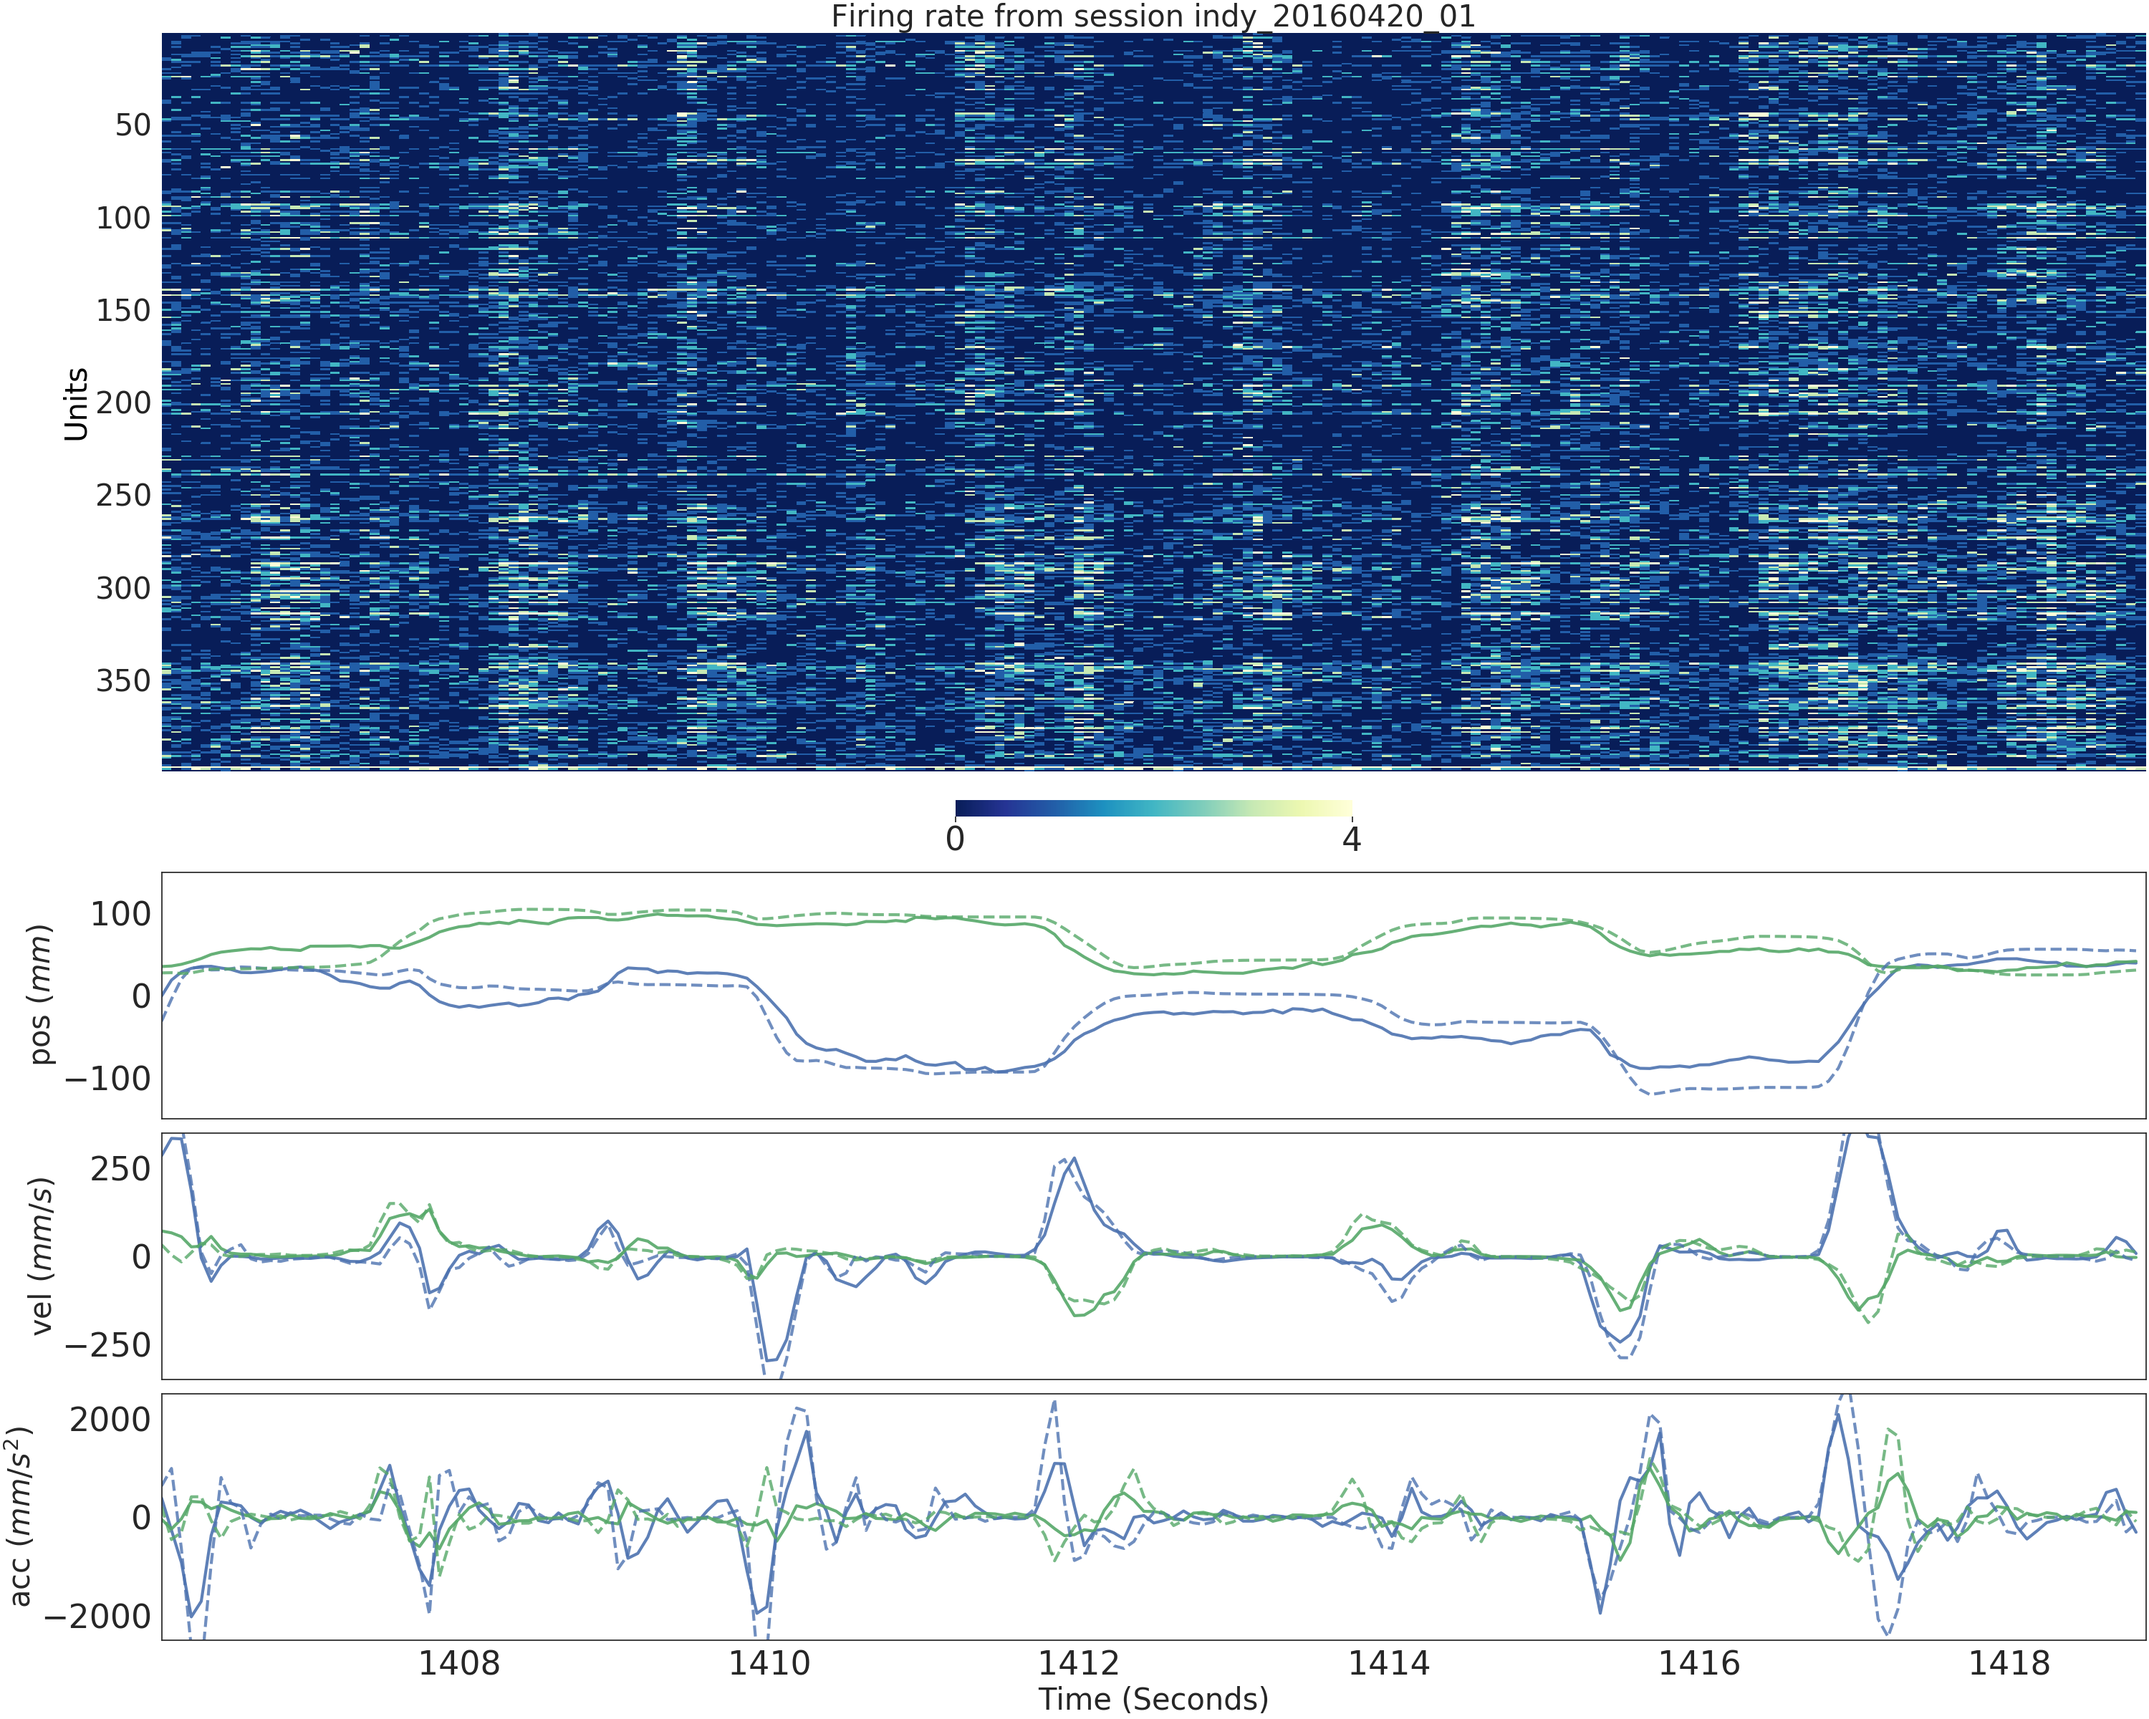
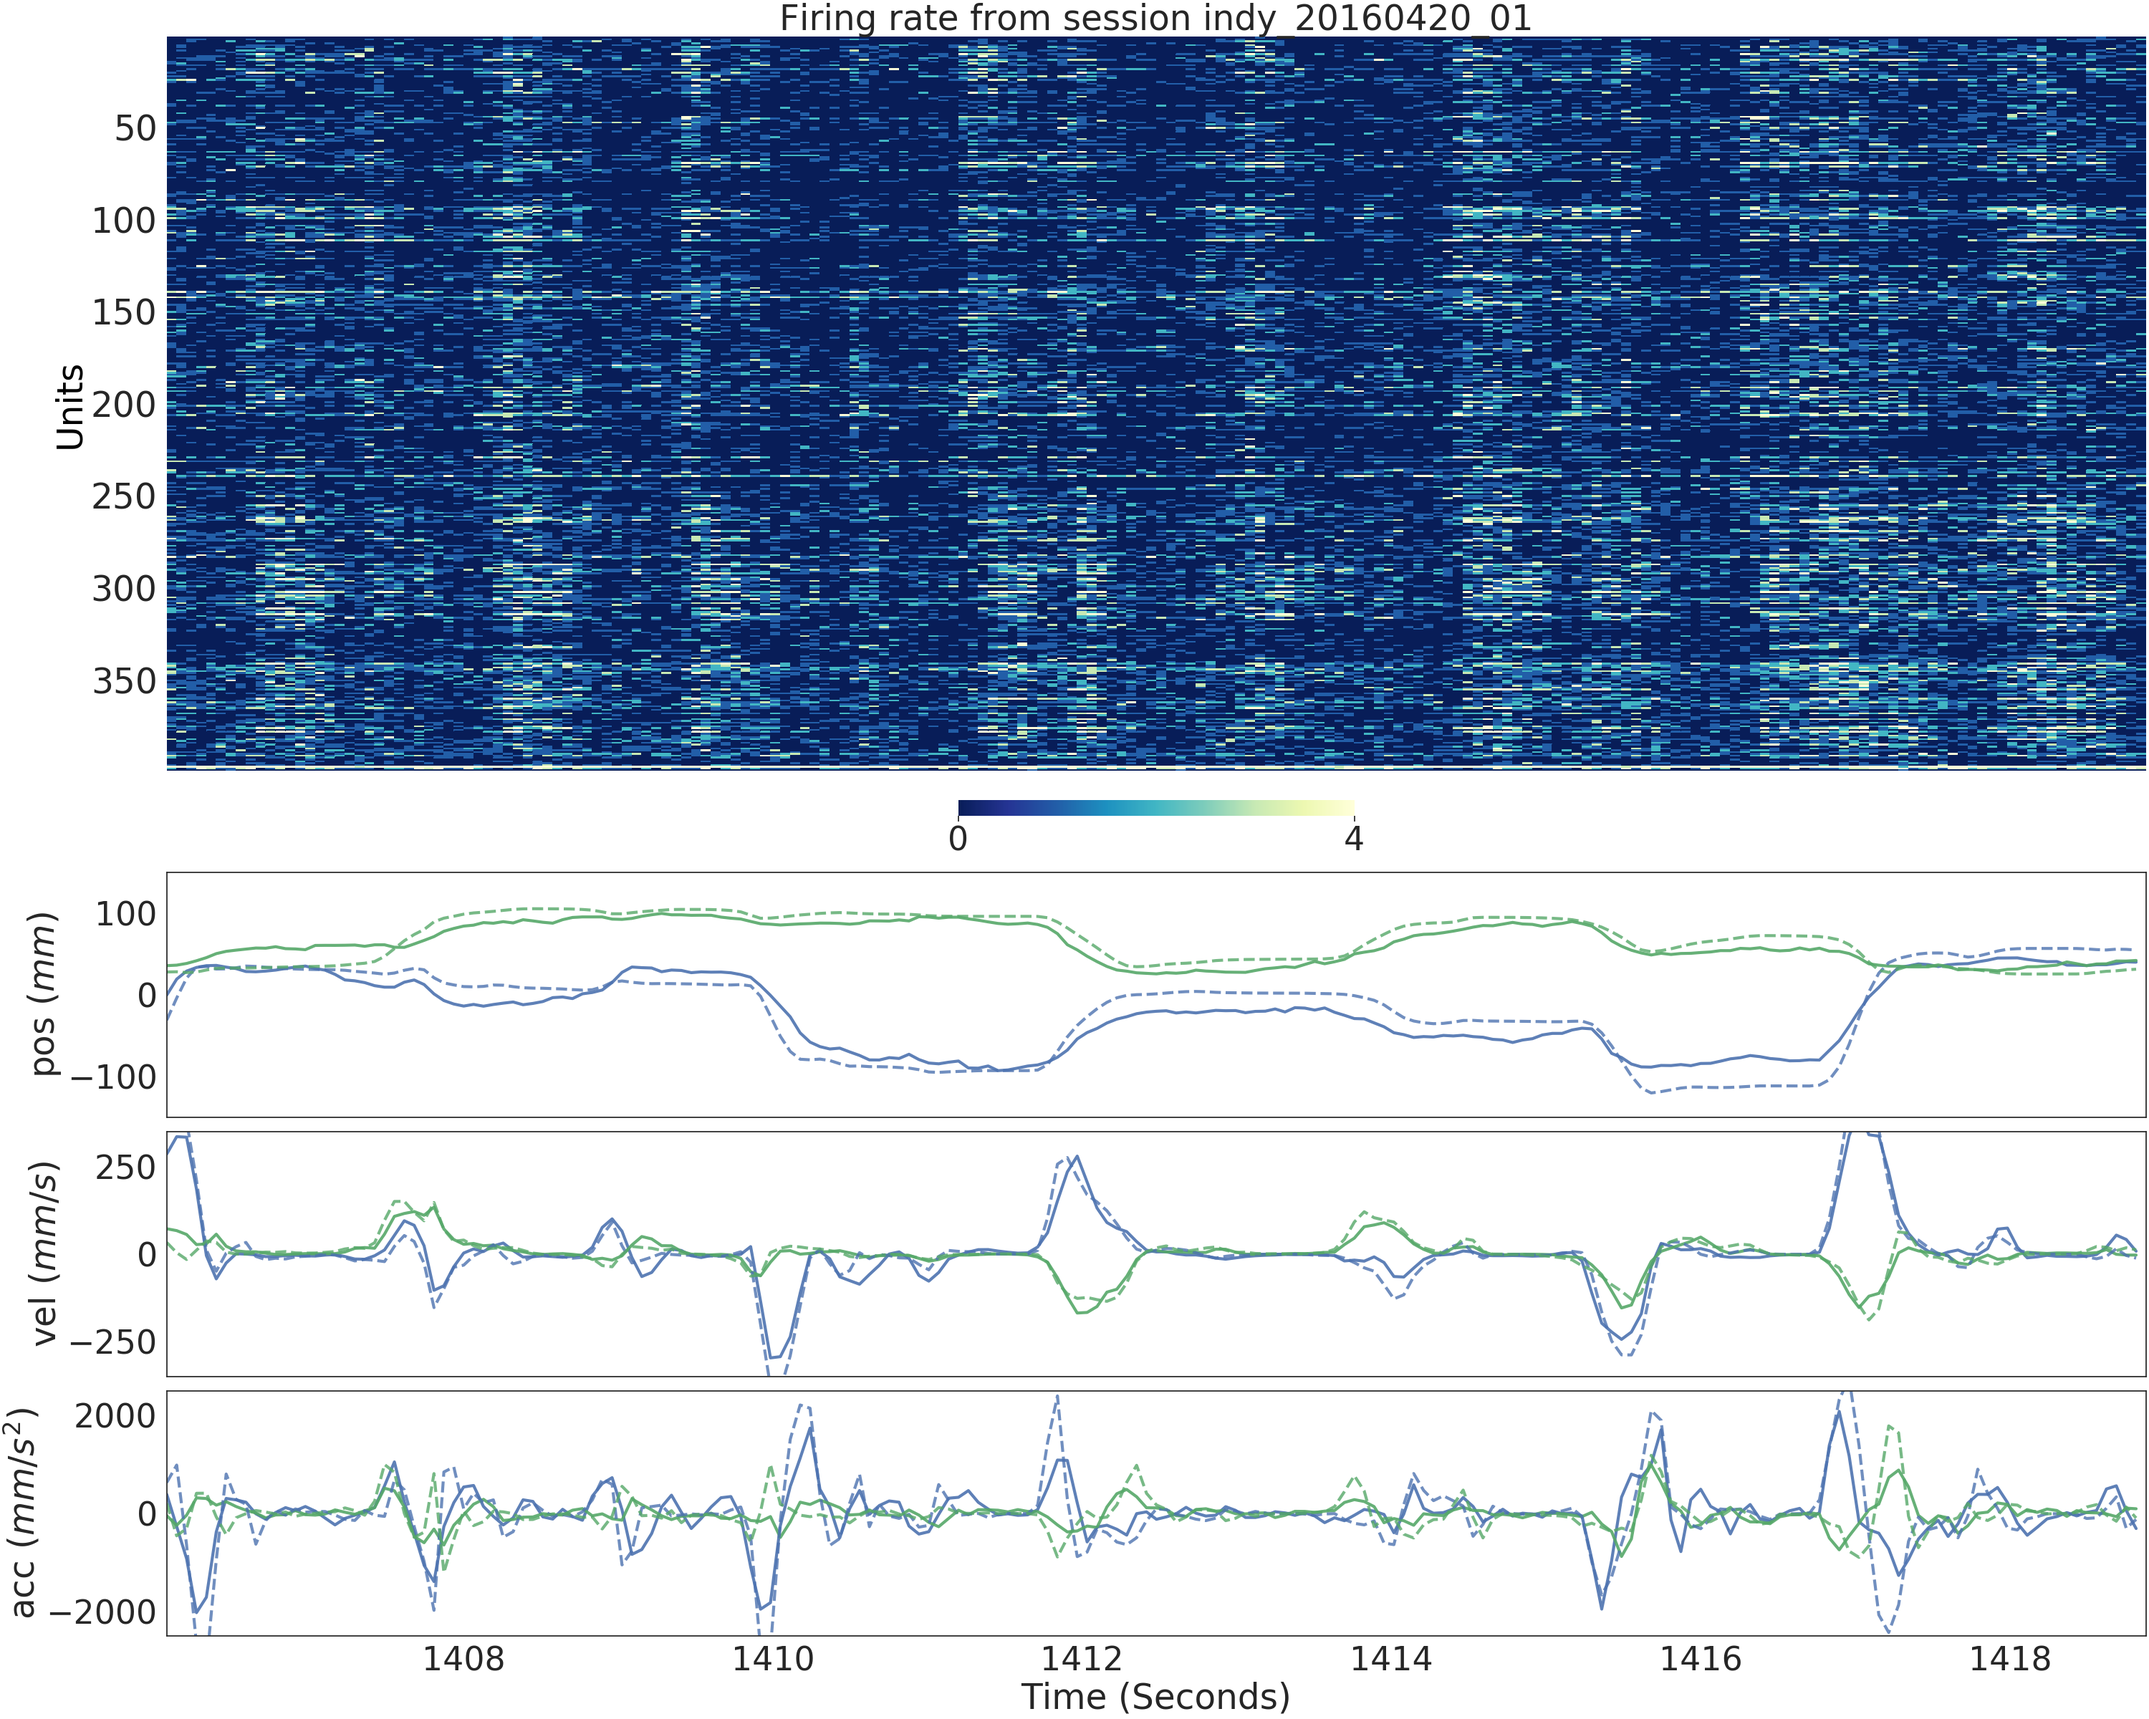
fig

diff --git a/Python_code/Read_mat_file_and_Plot/six_kinematic_variable_prediction_with_firing_rate/plot.py b/Python_code/Read_mat_file_and_Plot/six_kinematic_variable_prediction_with_firing_rate/plot.py
@@ -298,7 +298,7 @@ shutil.rmtree(Firing_Rate_Visualization)
 # Start plotting
 start_time_bin = 200
 end_time_bin = 400
-my_fontsize = 30
+my_fontsize = 35
 my_plot_width = 30
 my_plot_height = 20
 
@@ -315,7 +315,7 @@ if not os.path.exists(plot_path):
 
 
 # Figure firing rate only with seconds
-'''
+
 plt.figure(figsize=(my_plot_width, my_plot_height))
 
 plt.title( 'Session ' + session_name + ' Firing Rate', fontsize=30, color="black")
@@ -352,9 +352,6 @@ ax.set_xticks(xticks)
 ax.set_xticklabels(ax.get_xmajorticklabels(), fontsize = my_fontsize, rotation=0)
 ax.set_yticklabels(ax.get_ymajorticklabels(), fontsize = my_fontsize)
 
-
-
-
 ax.yaxis.set_major_locator(ticker.MultipleLocator(50))
 ax.yaxis.set_major_formatter(ticker.ScalarFormatter())
 
@@ -368,7 +365,7 @@ plt.savefig(plot_path+'/' +'firing_rate_in_seconds'+'.png')
 plt.clf()
 plt.cla()
 plt.close()
-'''
+
 
 # Official one
 
@@ -451,7 +448,7 @@ else:
     exit()
 
 
-# Figure firing rate and all kinematic variables
+# Figure firing rate and all kinematic variables version 1
 plt.title( 'Session ' + session_name + ' Firing Rate', fontsize=30, color="black")
 
 sns.set(font_scale=3)
@@ -482,7 +479,6 @@ ax[0].yaxis.set_major_locator(ticker.MultipleLocator(50))
 ax[0].yaxis.set_major_formatter(ticker.ScalarFormatter())
 
 ax[0].set_ylabel('Units', fontsize=my_fontsize, color="black")
-
 
 
 # ax[1].set_title( 'Position', fontsize=my_fontsize)
@@ -529,3 +525,93 @@ plt.cla()
 plt.clf()
 plt.close()
 
+
+
+# Figure firing rate and all kinematic variables version 2
+# plt.title( 'Session ' + session_name + ' Firing Rate', fontsize=30, color="black")
+
+sns.set(font_scale=3)
+sns.set_style("white")
+sns.color_palette(palette=None)
+
+f ,ax = plt.subplots(4,1, gridspec_kw={'height_ratios': [1, 1, 1, 1],  "hspace":0 ,"left":0.1, "right":0.95, "top":0.95, "bottom":0.05}, constrained_layout=False , figsize=(my_plot_width, my_plot_height*1.2))
+
+
+# ax[0].set_title( 'Position', fontsize=my_fontsize)
+ax[0].plot( position_timestamp[start_time_bin:end_time_bin], position_x_predction[start_time_bin:end_time_bin], 'b', linewidth=3, label='x-axis prediction', alpha=0.9 )
+ax[0].plot(position_timestamp[start_time_bin:end_time_bin], position_y_predction[start_time_bin:end_time_bin], 'g', linewidth=3, label='y-axis prediction', alpha=0.9 )
+ax[0].plot( position_timestamp[start_time_bin:end_time_bin], position_x_actual[start_time_bin:end_time_bin], 'b--', linewidth=3, label='x-axis actual', alpha=0.8 )
+ax[0].plot(position_timestamp[start_time_bin:end_time_bin], position_y_actual[start_time_bin:end_time_bin], 'g--', linewidth=3, label='y-axis actual', alpha=0.8 )
+ax[0].set_ylabel( 'pos ($mm$)', fontsize=my_fontsize, rotation=90)
+ax[0].get_xaxis().set_ticks([])
+# ax[0].legend(loc='upper right', fontsize=my_fontsize)
+ax[0].set_xlim([ position_timestamp[start_time_bin] ,  position_timestamp[end_time_bin]  ])
+ax[0].set_ylim([ -150, 150  ])
+
+
+# ax[1].set_title( 'Velocity', fontsize=my_fontsize)
+ax[1].plot(velocity_timestamp[start_time_bin:end_time_bin], velocity_x_predction[start_time_bin:end_time_bin], 'b', linewidth=3, label='x-axis prediction', alpha=0.9 )
+ax[1].plot(velocity_timestamp[start_time_bin:end_time_bin], velocity_y_predction[start_time_bin:end_time_bin], 'g', linewidth=3, label='y-axis prediction', alpha=0.9 )
+ax[1].plot(velocity_timestamp[start_time_bin:end_time_bin], velocity_x_actual[start_time_bin:end_time_bin], 'b--', linewidth=3, label='x-axis actual', alpha=0.8 )
+ax[1].plot(velocity_timestamp[start_time_bin:end_time_bin], velocity_y_actual[start_time_bin:end_time_bin], 'g--', linewidth=3, label='y-axis actual', alpha=0.8 )
+ax[1].set_ylabel( 'vel ($mm/s$)', fontsize=my_fontsize, rotation=90)
+ax[1].get_xaxis().set_ticks([])
+# ax[1].legend(loc='upper right', fontsize=my_fontsize)
+ax[1].set_xlim([ velocity_timestamp[start_time_bin] ,  velocity_timestamp[end_time_bin]  ])
+ax[1].set_ylim([ -350, 350  ])
+
+
+# ax[2].set_title( 'Acceleration', fontsize=my_fontsize)
+ax[2].plot(acceleration_timestamp[start_time_bin:end_time_bin], acceleration_x_predction[start_time_bin:end_time_bin], 'b', linewidth=3, label='x-axis prediction', alpha=0.9 )
+ax[2].plot(acceleration_timestamp[start_time_bin:end_time_bin], acceleration_y_predction[start_time_bin:end_time_bin], 'g', linewidth=3, label='y-axis prediction', alpha=0.9 )
+ax[2].plot(acceleration_timestamp[start_time_bin:end_time_bin], acceleration_x_actual[start_time_bin:end_time_bin], 'b--', linewidth=3, label='x-axis actual', alpha=0.8 )
+ax[2].plot(acceleration_timestamp[start_time_bin:end_time_bin], acceleration_y_actual[start_time_bin:end_time_bin], 'g--', linewidth=3, label='y-axis actual', alpha=0.8 )
+ax[2].set_ylabel( 'acc ($mm/s^2$)', fontsize=my_fontsize, rotation=90)
+ax[2].get_xaxis().set_ticks([])
+# ax[2].legend(loc='upper right', fontsize=my_fontsize)
+ax[2].set_xlim([ acceleration_timestamp[start_time_bin] ,  acceleration_timestamp[end_time_bin]  ])
+ax[2].set_ylim([ -2500, 2500  ])
+
+
+
+data = torch.transpose( testing_x[start_time_bin:end_time_bin,:], 0, 1)
+# Eliminate empty units
+valid_rows=[]
+for row_idx in range(data.size(0)):
+    if not torch.all( data[row_idx,:] ==0 ):
+        valid_rows.append(row_idx)
+data = data[valid_rows,:]
+
+# https://stackoverflow.com/questions/47784215/seaborn-heatmap-custom-tick-values
+num_ticks = 6
+my_second_labels = time_stamp_64ms[start_time_bin:end_time_bin]
+# the index of the position of yticks
+xticks = np.linspace(0, len(my_second_labels) - 1, num_ticks, dtype=np.int)
+# the content of labels of these yticks
+xticklabels = [ my_second_labels[idx] for idx in xticks ] # float version
+# xticklabels = [ int(my_second_labels[idx]) for idx in xticks ] # int version
+
+# cbar_kws={"orientation": "horizontal", "shrink": 0.2, "aspect":20,"use_gridspec":"True", "fraction":0.01 , "pad":0.03, 'ticks' : [ torch.min(data), 4 ]}
+sns.heatmap( data=data, vmin=0, vmax=4 ,xticklabels=xticklabels, yticklabels=True, cmap='YlGnBu_r', ax=ax[3], cbar=False) # important, not ax[0] = sns.heatmap(...)
+
+# ax[3].set_title('Firing rate from session '+ session_name, fontsize=my_fontsize)
+ax[3].set_xticklabels(ax[3].get_xmajorticklabels(), fontsize = my_fontsize, rotation=0)
+ax[3].set_yticklabels(ax[3].get_ymajorticklabels(), fontsize = my_fontsize, rotation=0)
+
+ax[3].set_xticks(xticks)
+
+ax[3].yaxis.set_major_locator(ticker.MultipleLocator(100))
+ax[3].yaxis.set_major_formatter(ticker.ScalarFormatter())
+
+ax[3].set_ylabel('Sorted units', fontsize=my_fontsize, color="black")
+ax[3].set_xlabel('Time (Seconds)', fontsize=my_fontsize)
+
+
+# f.tight_layout()
+
+plt.savefig( plot_path+'/'+ 'Firing_rate_heatmap_and_all_kinematic_variables_pred_and_actual_no_color_bar' +'.png' )
+
+
+plt.cla()
+plt.clf()
+plt.close()
